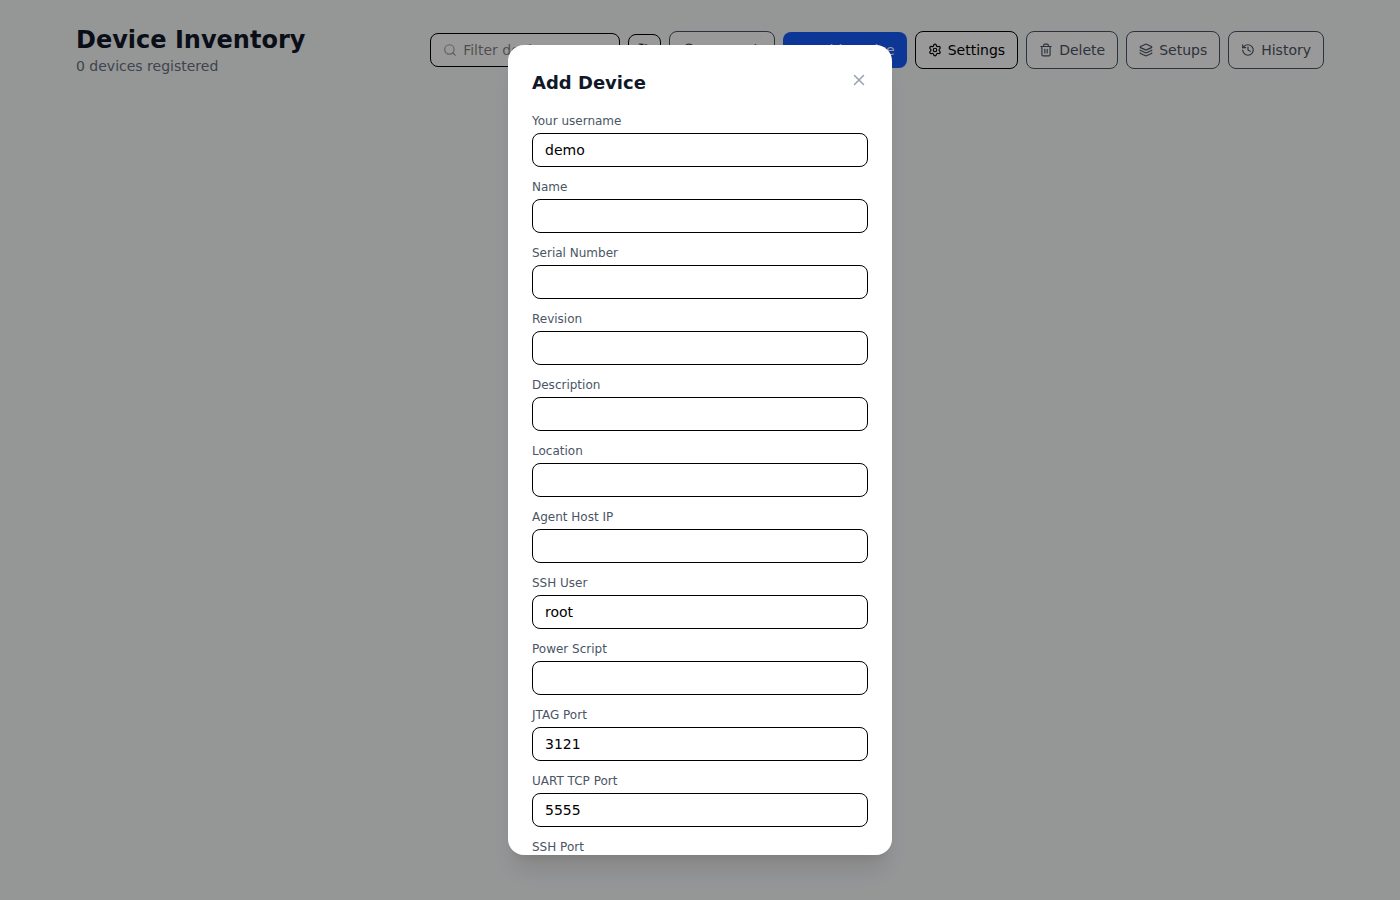
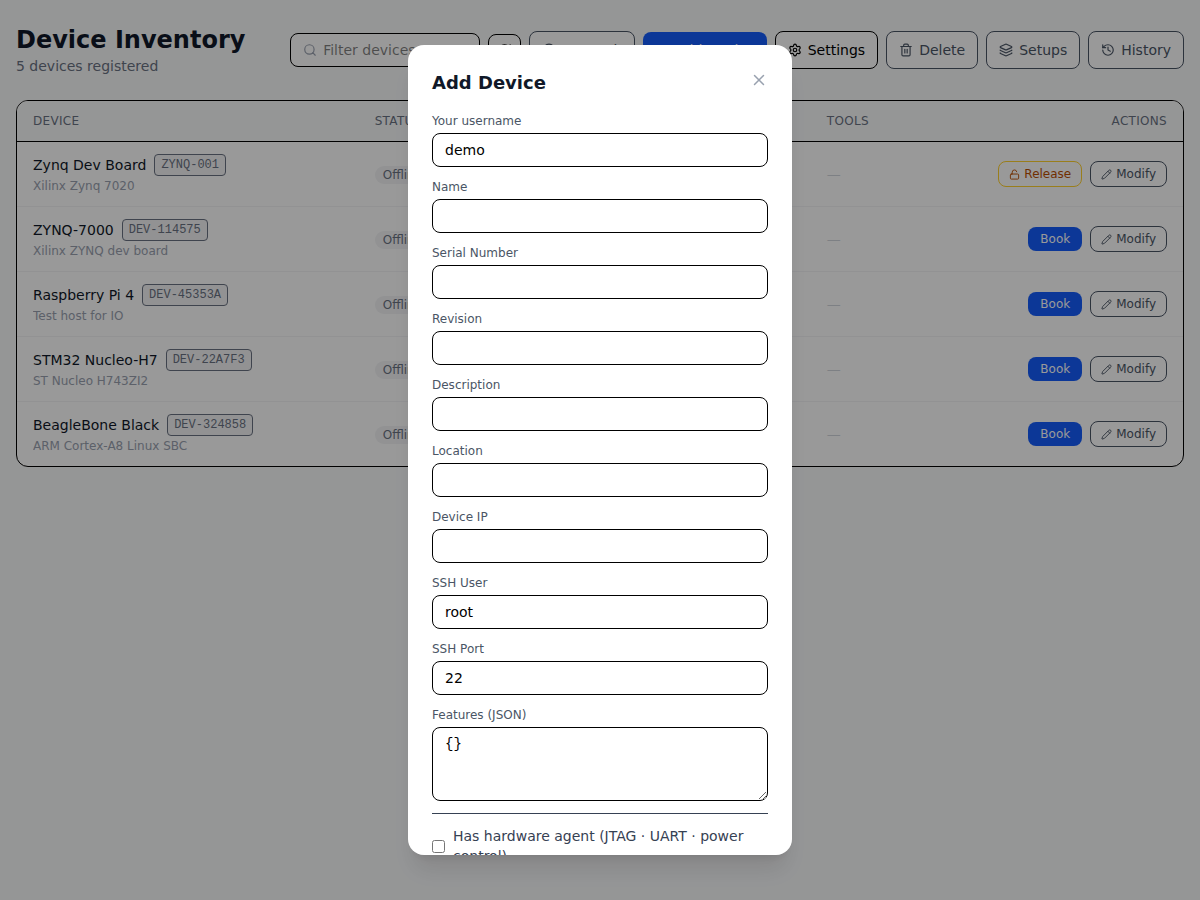
Add device_ip field; agent section behind checkbox in add/edit forms
- New `device_ip` field on Board for the device's own direct IP (SSH target),
  separate from `host_ip` which is the agent host PC (JTAG/UART/power)
- Add/Edit device forms: always show Device IP; JTAG, UART, Power Script,
  Agent Host IP hidden behind a "Has hardware agent" checkbox (unchecked by default)
- Edit modal auto-checks the agent checkbox if the board already has host_ip/jtag/uart set
- SSH command uses device_ip if set, falls back to host_ip
- JTAG/UART commands continue to use host_ip (agent's machine)
- Board detail header shows Device IP and Agent IP as distinct items

https://claude.ai/code/session_01GABJSn9qP5pQbQ7Q7k4QpR

diff --git a/frontend/src/pages/InventoryPage.tsx b/frontend/src/pages/InventoryPage.tsx
@@ -42,24 +42,27 @@ import { useStatusSocket } from '../hooks/useStatusSocket';
 // Helpers
 // ─────────────────────────────────────────────────────────────────────────────
 
-const FIELD_TEXT: [string, keyof BoardCreate, string][] = [
-  ['Name', 'name', 'text'],
-  ['Serial Number', 'serial_number', 'text'],
-  ['Revision', 'revision', 'text'],
-  ['Description', 'description', 'text'],
-  ['Location', 'location', 'text'],
-  ['Agent Host IP', 'host_ip', 'text'],
-  ['SSH User', 'ssh_user', 'text'],
-  ['Power Script', 'power_script', 'text'],
+const FIELD_BASIC: [string, keyof BoardCreate][] = [
+  ['Name', 'name'],
+  ['Serial Number', 'serial_number'],
+  ['Revision', 'revision'],
+  ['Description', 'description'],
+  ['Location', 'location'],
+  ['Device IP', 'device_ip'],
+  ['SSH User', 'ssh_user'],
 ];
-const FIELD_NUM: [string, keyof BoardCreate][] = [
+const FIELD_AGENT_TEXT: [string, keyof BoardCreate][] = [
+  ['Agent Host IP', 'host_ip'],
+  ['Power Script', 'power_script'],
+];
+const FIELD_AGENT_NUM: [string, keyof BoardCreate][] = [
+  ['SSH Port', 'ssh_port'],
   ['JTAG Port', 'jtag_port'],
   ['UART TCP Port', 'uart_tcp_port'],
-  ['SSH Port', 'ssh_port'],
 ];
 const DEFAULT_BOARD: BoardCreate = {
   name: '', serial_number: '', revision: '', description: '',
-  location: '', host_ip: '', features: {}, jtag_port: 3121, uart_tcp_port: 5555,
+  location: '', device_ip: '', host_ip: '', features: {}, jtag_port: 3121, uart_tcp_port: 5555,
   ssh_user: 'root', ssh_port: 22, power_script: '', power_args: {},
   enabled: true, current_notes: '',
 };
@@ -128,6 +131,7 @@ function AddBoardModal({ onClose }: { onClose: () => void }) {
   const [username, setUsernameState] = useState(getDefaultUser());
   const [form, setForm] = useState<BoardCreate>(DEFAULT_BOARD);
   const [featuresRaw, setFeaturesRaw] = useState('{}');
+  const [hasAgent, setHasAgent] = useState(false);
 
   const mut = useMutation({
     mutationFn: () => createBoard({ ...form, features: JSON.parse(featuresRaw) }, username),
@@ -147,23 +151,50 @@ function AddBoardModal({ onClose }: { onClose: () => void }) {
             <input className={inputCls} value={username}
               onChange={(e) => setUsernameState(e.target.value)} placeholder="Required" />
           </Field>
-          {FIELD_TEXT.map(([label, key]) => (
+          {FIELD_BASIC.map(([label, key]) => (
             <Field key={key as string} label={label}>
               <input type="text" className={inputCls} value={String(form[key] ?? '')}
                 onChange={(e) => setForm(f => ({ ...f, [key]: e.target.value }))} />
             </Field>
           ))}
-          {FIELD_NUM.map(([label, key]) => (
-            <Field key={key as string} label={label}>
-              <input type="number" className={inputCls} value={Number(form[key])}
-                onChange={(e) => setForm(f => ({ ...f, [key]: Number(e.target.value) }))} />
-            </Field>
-          ))}
+          <Field label="SSH Port">
+            <input type="number" className={inputCls} value={Number(form.ssh_port)}
+              onChange={(e) => setForm(f => ({ ...f, ssh_port: Number(e.target.value) }))} />
+          </Field>
           <Field label="Features (JSON)">
             <textarea className={`${inputCls} font-mono`} rows={3} value={featuresRaw}
               onChange={(e) => setFeaturesRaw(e.target.value)} />
           </Field>
-          <label className="flex items-center gap-2 text-sm">
+
+          {/* Agent section */}
+          <label className="flex items-center gap-2 text-sm font-medium text-gray-700 border-t pt-3">
+            <input type="checkbox" className="accent-blue-600" checked={hasAgent}
+              onChange={(e) => setHasAgent(e.target.checked)} />
+            Has hardware agent (JTAG · UART · power control)
+          </label>
+          {hasAgent && (
+            <div className="flex flex-col gap-3 pl-3 border-l-2 border-blue-200">
+              {FIELD_AGENT_TEXT.map(([label, key]) => (
+                <Field key={key as string} label={label}>
+                  <input type="text" className={inputCls} value={String(form[key] ?? '')}
+                    onChange={(e) => setForm(f => ({ ...f, [key]: e.target.value }))} />
+                </Field>
+              ))}
+              {FIELD_AGENT_NUM.filter(([, k]) => k !== 'ssh_port').map(([label, key]) => (
+                <Field key={key as string} label={label}>
+                  <input type="number" className={inputCls} value={Number(form[key])}
+                    onChange={(e) => setForm(f => ({ ...f, [key]: Number(e.target.value) }))} />
+                </Field>
+              ))}
+              <Field label="Power Script Args (JSON)">
+                <textarea className={`${inputCls} font-mono`} rows={2}
+                  value={JSON.stringify(form.power_args ?? {})}
+                  onChange={(e) => { try { setForm(f => ({ ...f, power_args: JSON.parse(e.target.value) })); } catch { /* ignore */ } }} />
+              </Field>
+            </div>
+          )}
+
+          <label className="flex items-center gap-2 text-sm border-t pt-3">
             <input type="checkbox" checked={form.enabled}
               onChange={(e) => setForm(f => ({ ...f, enabled: e.target.checked }))} />
             Enabled
@@ -191,6 +222,7 @@ function EditBoardModal({ board, onClose }: { board: BoardInfo; onClose: () => v
     revision: board.revision,
     description: board.description,
     location: board.location,
+    device_ip: board.device_ip ?? '',
     host_ip: board.host_ip ?? '',
     current_notes: board.current_notes,
     ssh_user: board.ssh_user,
@@ -198,9 +230,11 @@ function EditBoardModal({ board, onClose }: { board: BoardInfo; onClose: () => v
     jtag_port: board.jtag_port,
     uart_tcp_port: board.uart_tcp_port,
     power_script: board.power_script,
+    power_args: board.power_args,
     enabled: board.enabled,
   });
   const [featuresRaw, setFeaturesRaw] = useState(JSON.stringify(board.features, null, 2));
+  const [hasAgent, setHasAgent] = useState(!!(board.host_ip || board.jtag_port || board.uart_tcp_port));
   const [newTool, setNewTool] = useState<ToolCreate>({ type: 'logic_analyzer', model: '', connection: 'usb', connection_detail: '', notes: '' });
   const [addingTool, setAddingTool] = useState(false);
 
@@ -236,18 +270,16 @@ function EditBoardModal({ board, onClose }: { board: BoardInfo; onClose: () => v
           <Field label="Device ID">
             <span className="font-mono text-sm text-gray-500 bg-gray-50 border rounded-lg px-3 py-1.5">{board.device_id || '—'}</span>
           </Field>
-          {([['Name', 'name'], ['Serial Number', 'serial_number'], ['Revision', 'revision'], ['Description', 'description'], ['Location', 'location'], ['Agent Host IP', 'host_ip'], ['SSH User', 'ssh_user'], ['Power Script', 'power_script']] as [string, keyof typeof form][]).map(([label, key]) => (
+          {([['Name', 'name'], ['Serial Number', 'serial_number'], ['Revision', 'revision'], ['Description', 'description'], ['Location', 'location'], ['Device IP', 'device_ip'], ['SSH User', 'ssh_user']] as [string, keyof typeof form][]).map(([label, key]) => (
             <Field key={key} label={label}>
               <input type="text" className={inputCls} value={String(form[key] ?? '')}
                 onChange={(e) => setForm(f => ({ ...f, [key]: e.target.value }))} />
             </Field>
           ))}
-          {([['JTAG Port', 'jtag_port'], ['UART TCP Port', 'uart_tcp_port'], ['SSH Port', 'ssh_port']] as [string, keyof typeof form][]).map(([label, key]) => (
-            <Field key={key} label={label}>
-              <input type="number" className={inputCls} value={Number(form[key])}
-                onChange={(e) => setForm(f => ({ ...f, [key]: Number(e.target.value) }))} />
-            </Field>
-          ))}
+          <Field label="SSH Port">
+            <input type="number" className={inputCls} value={Number(form.ssh_port)}
+              onChange={(e) => setForm(f => ({ ...f, ssh_port: Number(e.target.value) }))} />
+          </Field>
           <Field label="Features (JSON)">
             <textarea className={`${inputCls} font-mono`} rows={3} value={featuresRaw}
               onChange={(e) => setFeaturesRaw(e.target.value)} />
@@ -256,7 +288,36 @@ function EditBoardModal({ board, onClose }: { board: BoardInfo; onClose: () => v
             <textarea className={inputCls} rows={2} value={form.current_notes}
               onChange={(e) => setForm(f => ({ ...f, current_notes: e.target.value }))} />
           </Field>
-          <label className="flex items-center gap-2 text-sm">
+
+          {/* Agent section */}
+          <label className="flex items-center gap-2 text-sm font-medium text-gray-700 border-t pt-3">
+            <input type="checkbox" className="accent-blue-600" checked={hasAgent}
+              onChange={(e) => setHasAgent(e.target.checked)} />
+            Has hardware agent (JTAG · UART · power control)
+          </label>
+          {hasAgent && (
+            <div className="flex flex-col gap-3 pl-3 border-l-2 border-blue-200">
+              {([['Agent Host IP', 'host_ip'], ['Power Script', 'power_script']] as [string, keyof typeof form][]).map(([label, key]) => (
+                <Field key={key} label={label}>
+                  <input type="text" className={inputCls} value={String(form[key] ?? '')}
+                    onChange={(e) => setForm(f => ({ ...f, [key]: e.target.value }))} />
+                </Field>
+              ))}
+              {([['JTAG Port', 'jtag_port'], ['UART TCP Port', 'uart_tcp_port']] as [string, keyof typeof form][]).map(([label, key]) => (
+                <Field key={key} label={label}>
+                  <input type="number" className={inputCls} value={Number(form[key])}
+                    onChange={(e) => setForm(f => ({ ...f, [key]: Number(e.target.value) }))} />
+                </Field>
+              ))}
+              <Field label="Power Script Args (JSON)">
+                <textarea className={`${inputCls} font-mono`} rows={2}
+                  value={JSON.stringify(form.power_args ?? {})}
+                  onChange={(e) => { try { setForm(f => ({ ...f, power_args: JSON.parse(e.target.value) })); } catch { /* ignore */ } }} />
+              </Field>
+            </div>
+          )}
+
+          <label className="flex items-center gap-2 text-sm border-t pt-3">
             <input type="checkbox" checked={form.enabled}
               onChange={(e) => setForm(f => ({ ...f, enabled: e.target.checked }))} />
             Enabled

diff --git a/frontend/src/pages/BoardDetailPage.tsx b/frontend/src/pages/BoardDetailPage.tsx
@@ -140,14 +140,28 @@ export default function BoardDetailPage() {
                 {board.location}
               </div>
             )}
-            <div className="flex items-center gap-1">
-              {board.agent_online ? (
-                <Wifi size={13} className="text-green-500" />
-              ) : (
-                <WifiOff size={13} className="text-gray-400" />
-              )}
-              {board.host_ip ?? 'No agent'}
-            </div>
+            {board.device_ip && (
+              <div className="flex items-center gap-1">
+                <span className="text-xs font-semibold text-gray-400 uppercase">IP</span>
+                <span className="font-mono">{board.device_ip}</span>
+              </div>
+            )}
+            {board.host_ip && (
+              <div className="flex items-center gap-1">
+                {board.agent_online ? (
+                  <Wifi size={13} className="text-green-500" />
+                ) : (
+                  <WifiOff size={13} className="text-gray-400" />
+                )}
+                <span className="text-xs">Agent: {board.host_ip}</span>
+              </div>
+            )}
+            {!board.device_ip && !board.host_ip && (
+              <div className="flex items-center gap-1 text-gray-400">
+                <WifiOff size={13} />
+                No IP configured
+              </div>
+            )}
             {board.serial_number && (
               <div className="flex items-center gap-1">
                 <span className="text-xs font-semibold text-gray-400 uppercase">S/N</span>
@@ -196,7 +210,7 @@ export default function BoardDetailPage() {
               {board.ssh_port > 0 && (
                 <ShellLine
                   label="SSH"
-                  cmd={`ssh ${board.ssh_user}@${board.host_ip ?? 'AGENT_IP'} -p ${board.ssh_port}`}
+                  cmd={`ssh ${board.ssh_user}@${board.device_ip || board.host_ip || 'DEVICE_IP'} -p ${board.ssh_port}`}
                 />
               )}
               {board.uart_tcp_port > 0 && (

diff --git a/frontend/src/api/types.ts b/frontend/src/api/types.ts
@@ -81,6 +81,7 @@ export interface BoardInfo {
   name: string;
   description: string;
   location: string;
+  device_ip: string;
   agent_id: string | null;
   host_ip: string | null;
   features: Record<string, unknown>;
@@ -103,6 +104,7 @@ export interface BoardCreate {
   revision: string;
   description: string;
   location: string;
+  device_ip?: string;
   host_ip?: string | null;
   features: Record<string, unknown>;
   jtag_port: number;

diff --git a/server/routers/bookings.py b/server/routers/bookings.py
@@ -242,13 +242,14 @@ async def get_commands(
         raise HTTPException(status_code=409, detail="Booking is not active")
 
     board = booking.board
-    ip = board.host_ip or "AGENT_IP"
+    agent_ip = board.host_ip or "AGENT_IP"
+    ssh_ip = board.device_ip or board.host_ip or "DEVICE_IP"
 
     return CommandsOut(
-        jtag_connect=f"connect_hw_server -url tcp:{ip}:{board.jtag_port}",
-        vivado_tcl=f"connect_hw_server -url tcp:{ip}:{board.jtag_port}\nopen_hw_target",
-        uart=f"telnet {ip} {board.uart_tcp_port}",
-        ssh=f"ssh {board.ssh_user}@{ip} -p {board.ssh_port}",
+        jtag_connect=f"connect_hw_server -url tcp:{agent_ip}:{board.jtag_port}" if board.jtag_port else "",
+        vivado_tcl=f"connect_hw_server -url tcp:{agent_ip}:{board.jtag_port}\nopen_hw_target" if board.jtag_port else "",
+        uart=f"telnet {agent_ip} {board.uart_tcp_port}" if board.uart_tcp_port else "",
+        ssh=f"ssh {board.ssh_user}@{ssh_ip} -p {board.ssh_port}" if board.ssh_port else "",
         power_on=f"# Use the boardfarm UI or API: POST /boards/{board.id}/power {{\"action\":\"on\"}}",
     )
 

diff --git a/server/schemas.py b/server/schemas.py
@@ -50,6 +50,7 @@ class BoardIn(BaseModel):
     description: str = ""
     location: str = ""
     current_notes: str = ""
+    device_ip: str = ""
     host_ip: str | None = None
     features: dict = {}
     jtag_port: int = 0
@@ -68,6 +69,7 @@ class BoardUpdate(BaseModel):
     description: str | None = None
     location: str | None = None
     current_notes: str | None = None
+    device_ip: str | None = None
     host_ip: str | None = None
     features: dict | None = None
     jtag_port: int | None = None
@@ -113,6 +115,7 @@ class BoardOut(BaseModel):
     description: str
     location: str
     current_notes: str = ""
+    device_ip: str = ""
     agent_id: str | None
     host_ip: str | None
     features: dict

diff --git a/server/routers/boards.py b/server/routers/boards.py
@@ -61,6 +61,7 @@ async def _build_board_out(board: Board, db: AsyncSession) -> BoardOut:
         description=board.description,
         location=board.location,
         current_notes=board.current_notes,
+        device_ip=board.device_ip,
         agent_id=board.agent_id,
         host_ip=board.host_ip,
         features=json.loads(board.features) if board.features else {},
@@ -132,6 +133,7 @@ async def create_board(
         description=body.description,
         location=body.location,
         current_notes=body.current_notes,
+        device_ip=body.device_ip,
         host_ip=body.host_ip,
         features=json.dumps(body.features),
         jtag_port=body.jtag_port,

diff --git a/server/models.py b/server/models.py
@@ -67,6 +67,7 @@ class Board(Base):
     agent_id: Mapped[str | None] = mapped_column(
         String, ForeignKey("agents.id", ondelete="SET NULL"), nullable=True
     )
+    device_ip: Mapped[str] = mapped_column(String, default="")
     host_ip: Mapped[str | None] = mapped_column(String, nullable=True)
     features: Mapped[str] = mapped_column(String, default="{}")  # JSON
     jtag_port: Mapped[int] = mapped_column(Integer, default=3121)

diff --git a/server/database.py b/server/database.py
@@ -42,6 +42,7 @@ async def init_db() -> None:
         for col_def in (
             "ALTER TABLE bookings ADD COLUMN setup_id TEXT",
             "ALTER TABLE bookings ADD COLUMN setup_name TEXT NOT NULL DEFAULT ''",
+            "ALTER TABLE boards ADD COLUMN device_ip TEXT NOT NULL DEFAULT ''",
         ):
             try:
                 await conn.execute(text(col_def))

diff --git a/README.md b/README.md
@@ -156,9 +156,9 @@ Custom controllers: subclass `power.base.PowerController`.
 |----------|--------------------------|
 | ![Settings modal for server URL and username](screenshots/settings-modal.png) | ![Add setup modal with searchable device picker](screenshots/add-setup-modal.png) |
 
-| Book Setup modal | Add device modal |
-|-----------------|-----------------|
-| ![Book setup modal with duration and comment](screenshots/book-setup-modal.png) | ![Add device modal with fields for name, location, connectivity](screenshots/add-device-modal.png) |
+| Book Setup modal | Add device (with agent) |
+|-----------------|------------------------|
+| ![Book setup modal with duration and comment](screenshots/book-setup-modal.png) | ![Add device modal with agent section expanded](screenshots/add-device-modal-agent.png) |
 
 ---
 
